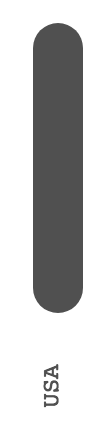
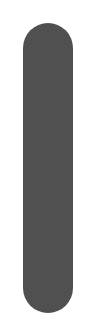
U3L5 Bar Graphs continued

Changed region(s): [[0.234, 0.0306, 0.8085, 0.9786]]

diff --git a/cur/programming/3-lists/5-graphing/bar-graphs.html b/cur/programming/3-lists/5-graphing/bar-graphs.html
@@ -14,7 +14,7 @@
         <div class="learn">  
         	<p>
             	<strong>In this project,</strong> you will create a data visualization tool general enough to generate bar graphs for a multitude of data sets.  You will deepen your understanding of abstraction and gain practice with Higher Order Functions such as <code>map</code>.<br />
-        		<img class="indent" src="/bjc-r/img/3-lists/BarGraph_img/codeCO2EmissionData.png"  height="250" alt=""/><img  src="/bjc-r/img/3-lists/BarGraph_img/BarGraphAnimation.gif" height="300" alt="bar graph of 2011 Top CO2 Emissions" title="bar graph of 2011 Top CO2 Emissions" />
+        	<img class="indent" src="/bjc-r/img/3-lists/BarGraph_img/CO2Table.png" height="300" alt=""/><img  src="/bjc-r/img/3-lists/BarGraph_img/BarGraphAnimation.gif" height="300" alt="bar graph of 2011 Top CO2 Emissions" title="bar graph of 2011 Top CO2 Emissions" />
             </p>
         </div>
         
@@ -51,58 +51,62 @@
   
 <img class="indent" src="/bjc-r/img/3-lists/BarGraph_img/putlabelChina.png"  height="150" alt=""/>&nbsp&nbsp&nbsp&nbsp<img src="/bjc-r/img/3-lists/BarGraph_img/ChinaLabels.png"  height="200" alt=""/>
 
+<div class="sidenote">Be sure that you have “Flat line ends” selected from the Settings menu to draw rectangular bars.  You can see the difference in two types of lines drawn.<br />
+<img src="/bjc-r/img/3-lists/BarGraph_img/FlatLineEnds.png" height="200" alt=""/>
+<img class="indent" src="/bjc-r/img/3-lists/BarGraph_img/FlatLineBar.png"  height="100" alt=""/>
+<img src="/bjc-r/img/3-lists/BarGraph_img/RoundedBar.png"  height="120" alt=""/>
 
- 
-</li>
-
-
-
-<li>Now create a block that will draw a vertical bar at the given x, y location of desired width and height with the given label underneath the bar.
-
- 
-This should produce:
- 
-Be sure that you have “Flat Line Ends” selected form the Settings menu to draw rectangular bars.  You can see the difference in two types of lines drawn.
-                        
-</li>
-
-<li>Now create a block that will create a series of bars starting from a xMin and yMin location with a desired bar width and maximum bar height for a given data input.
- 
-
-This block with the given inputs should produce something like:
-
-</li>
- <div class="endnote">
-Note that given a maximum bar height, the heights of all the bars can be computed as a fraction of this maximum bar height.  For example, if maximum bar height=240 and we want to find how tall the bar for USA should be, we first find the largest value in the data set which is 8715 (from China) and do the following computation
-USA bar height=240 ∙(USA Value)/(Maximum Value)=240 ∙5491/8715≈151
-
-While finding the maximum of the data values, first we get a list of values and then apply the max of list function.  The following block which uses the selector “get value” will produce a list of values from the given data list.
- </div>
-
-<li>Now create a block that labels the y-axis based on desired x, y locations and data input.
-
- 
-It should create labels like this:
-          
-For simplicity, you can assume that the y-axis will always be partitioned into 10 equal parts for labeling purposes.
-
-</li>
-<li>Now you are ready to put everything together and create a “Bar Graph” drawing block for a given data input.  Fill in the blanks.
- 
-When everything is done, the following code,
-
- 
-should produce a bar graph as shown below:
- 
-Your coding should be general enough to accommodate a new set of data input such as:
- 
-</li>
-<div class="sidenote">
-Note: “per capita” means “per person”.  So, for example for China, you take the total CO2 emissions and divide by the population:
-8715*106 metric tons/1.337 109persons=6.52 metric ton/person
 </div>
  
-<li>Compare the two bar graphs.  What insights does each graph provide about CO2 emissions? Is one better than the other?</li>
+</li>
+
+
+
+<li>Now create a block that will draw a vertical bar at the given x, y location of desired width and height with the given label placed underneath the bar.<br />
+	<img class="indent" src="/bjc-r/img/3-lists/BarGraph_img/drawbar.png" height="45" alt=""/>&nbsp&nbsp&nbsp&nbsp&nbsp&nbsp&nbsp&nbsp<img src="/bjc-r/img/3-lists/BarGraph_img/barGermany.png" height="200" alt=""/>
+                   
+</li>
+
+<li>Now create a block that will create a series of bars starting from a xMin and yMin location with a desired bar width and maximum bar height for a given data input.  This block with the given inputs should produce something like:<br />
+<img src="/bjc-r/img/3-lists/BarGraph_img/drawthebars.png"  height="60" alt=""/>
+<img src="/bjc-r/img/3-lists/BarGraph_img/bars.png"  height="250" alt=""/>
+</li>
+ <div class="endnote">
+Note that given a maximum bar height, the heights of all the bars can be computed as a fraction of this maximum bar height.  For example, if maximum bar height=240 and we want to find how tall the bar for USA should be, we first find the largest value in the data set which is 8715 (from China) and do the following computation<br />
+<img class="indent" src="/bjc-r/img/3-lists/BarGraph_img/BarHeightComputation.png"  height="70" alt=""/><br />
+
+While finding the maximum of the data values, first we get a list of values and then apply the max of list function.  The following block which uses the selector <code>get value</code> will extract a list of values from the given data list.<br />
+<img class="indent" src="/bjc-r/img/3-lists/BarGraph_img/mapgetvalue.png"  height="45" alt=""/>
+ </div>
+
+<li>Now create a block that labels the y-axis based on desired x, y locations and data input.  For simplicity, you can assume that the y-axis will always be partitioned into 10 equal parts for labeling purposes.  It should create labels like this:<br />
+
+ <img class="indent" src="/bjc-r/img/3-lists/BarGraph_img/labelyaxis.png"  height="45" alt=""/>
+
+ <img src="/bjc-r/img/3-lists/BarGraph_img/yaxislabels.png"  height="250" alt=""/>
+
+
+</li>
+<li>Now you are ready to put everything together and create a “Bar Graph” drawing block for a given data input.  Fill in the blanks.<br />
+
+ <img class="indent" src="/bjc-r/img/3-lists/BarGraph_img/BarGraphdata.png"  height="200" alt=""/>< br/>
+When everything is done, the following code should produce a bar graph as shown below:<br />
+<img class="indent" src="/bjc-r/img/3-lists/BarGraph_img/codeCO2EmissionData.png"  height="250" alt=""/><img src="/bjc-r/img/3-lists/BarGraph_img/CO2bargraph.png"  height="300" alt=""/>
+ 
+ </li>
+<li>Your coding should be general enough to accommodate a new set of data input such as:<br />
+<img class="indent" src="/bjc-r/img/3-lists/BarGraph_img/codeCO2EmissionsPerCapita.png"  height="250" alt=""/>
+<img src="/bjc-r/img/3-lists/BarGraph_img/CO2EmissionsPerCapita.png"  height="300" alt=""/>
+
+</li>
+ 
+<div class="endnote">
+Note: “per capita” means “per person”.  So, for example for China, you take the total CO<sub>2</sub> emissions and divide by the population:<br />
+<img class="indent" src="/bjc-r/img/3-lists/BarGraph_img/percapitacomputation.png" height="70" alt=""/>
+</div>
+
+ 
+<li>Compare the two bar graphs.  What insights does each graph provide about CO<sub>2</sub> emissions? Is one better than the other?</li>
 
 
 <li>Now collect some data in your class or from the internet on a topic you care about that would lend itself to visualization with a bar graph.  Use your Snap! program to visualize your data.</li>
@@ -111,9 +115,12 @@ Note: “per capita” means “per person”.  So, for example for China, you t
         </div>
         
         <div class="takeItFurther">
-Sometimes it is more convenient to present your bar graph with horizontal bars instead of vertical ones.  Modify your code so that it takes an input indicating which type of bar graph (horizontal or vertical) is to be generated.
-Histograms of frequency tables for continuous data.
-
+        <ol start="A">
+			<li>Sometimes it is more convenient to present your bar graph with horizontal bars instead of vertical ones.  Modify your code so that it takes an input indicating which type of bar graph (horizontal or vertical) is to be generated.<br />
+            <img class="indent" src="/bjc-r/img/3-lists/BarGraph_img/HorizontalBarGraph.png" height="300" alt=""/>
+</li>
+		<li>Histograms are bar graphs that displays the frequency distribution of continuous numerical data.  Learn about histograms and create a data visualization tool in Snap<em>!</em> for displaying histograms.</li>
+</ol>
         </div>
     </body>
 </html>
